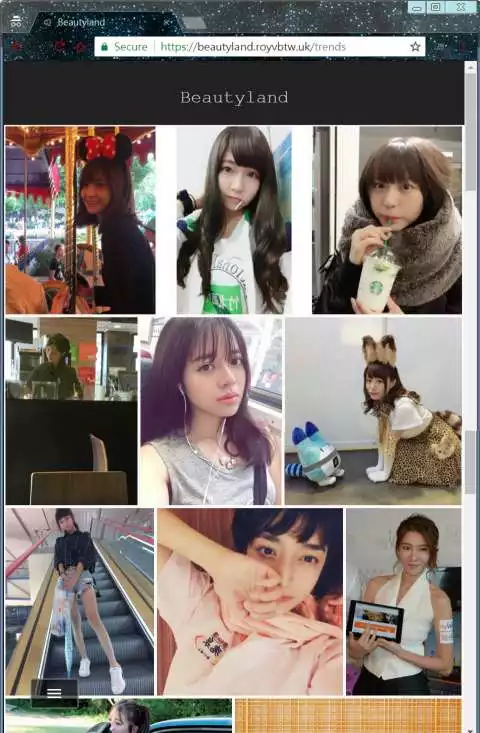
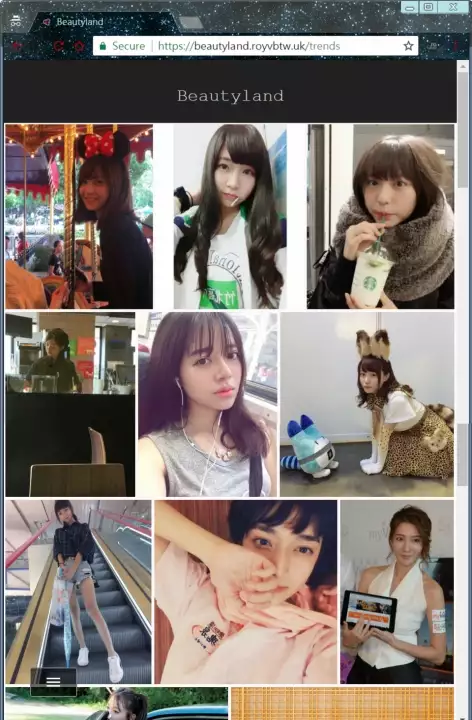
Adjust app screenshot styles

diff --git a/public/myapps.html b/public/myapps.html
@@ -17,13 +17,15 @@
 	
   
   <div class='app-info'>
-    <a href='img/beautyland_desktop_thumb.webp' target='_blank'>
-      <img class='app-preview' title='Beautyland desktop screenshot' style='width:262px;height:400px' src='img/beautyland_desktop_thumb.webp'>
-    </a>
-    <a href='img/beautyland_mobile_full.webp' target='_blank'>
-      <img class='app-preview' title='Beautyland mobile screenshot' style='width:193px;height:397px' src='img/beautyland_mobile_full.webp'>
-    </a>
     <h2>Beautyland</h2>
+    
+    <a href='img/beautyland_desktop_thumb.webp' target='_blank'>
+      <img class='app-preview img-beautyland' title='Beautyland desktop screenshot' src='img/beautyland_desktop_thumb.webp'>
+    </a>
+    <a href='img/beautyland_mobile_thumb.webp' target='_blank'>
+      <img class='app-preview img-beautyland' title='Beautyland mobile screenshot' src='img/beautyland_mobile_thumb.webp'>
+    </a>
+
     <a href='https://beautyland.royvbtw.uk/'>https://beautyland.royvbtw.uk/</a>
     <p>An image gallery service for the PTT beauty board. It displays image contents fetched from the Beautyladn API in an elegant and easy to read way.</p>
     <ul>
@@ -49,13 +51,15 @@
 	
   
   <div class='app-info'>
+    <h2>RTSM</h2>
+
     <a href='img/rtsm_thumb.webp' target='_blank'>
-      <img class='app-preview' title='RTSM desktop query result screenshot' style='width:199px;height:312px' src='img/rtsm_thumb.webp'>
+      <img class='app-preview img-rtsm' title='RTSM desktop query result screenshot' src='img/rtsm_thumb.webp'>
     </a>
     <a href='img/rtsm_01_thumb.webp' target='_blank'>
-      <img class='app-preview' title='RTSM desktop screenshot' style='width:356px;height:312px' src='img/rtsm_01_thumb.webp'>
+      <img class='app-preview img-rtsm' title='RTSM desktop screenshot' src='img/rtsm_01_thumb.webp'>
     </a>
-    <h2>RTSM</h2>
+
     <a href='https://royvbtw.github.io/rtsm/'>https://royvbtw.github.io/rtsm</a>
     <p>A user-friendly, responsive designed web service for display information from the RTSM API service.</p>
     <ul>

diff --git a/public/css/myapps.css b/public/css/myapps.css
@@ -44,11 +44,37 @@ h2{
 }
 
 .app-preview{
-	float: right;
-	margin: 5px;
+	margin: 5px auto;
 	box-shadow: 0 0px 5px 1px grey;
-	transition: all 750ms;
 }
-.app-preview:hover{
-	box-shadow: 0 0px 5px 1px snow;
+@media (min-width: 720px){
+	.app-preview{
+		float: right;
+		transition: all 750ms;
+	}
+	.app-preview:hover{
+		box-shadow: 0 0px 5px 1px snow;
+	}
+}
+
+.img-beautyland{
+	width: auto;
+	height: 180px;
+}
+@media (min-width: 720px){
+	.img-beautyland{
+		width: auto;
+		height: 360px;
+	}	
+}
+
+.img-rtsm{
+	width: auto;
+	height: 150px;
+}
+@media (min-width: 720px){
+	.img-rtsm{
+		width: auto;
+		height: 360px;
+	}	
 }
